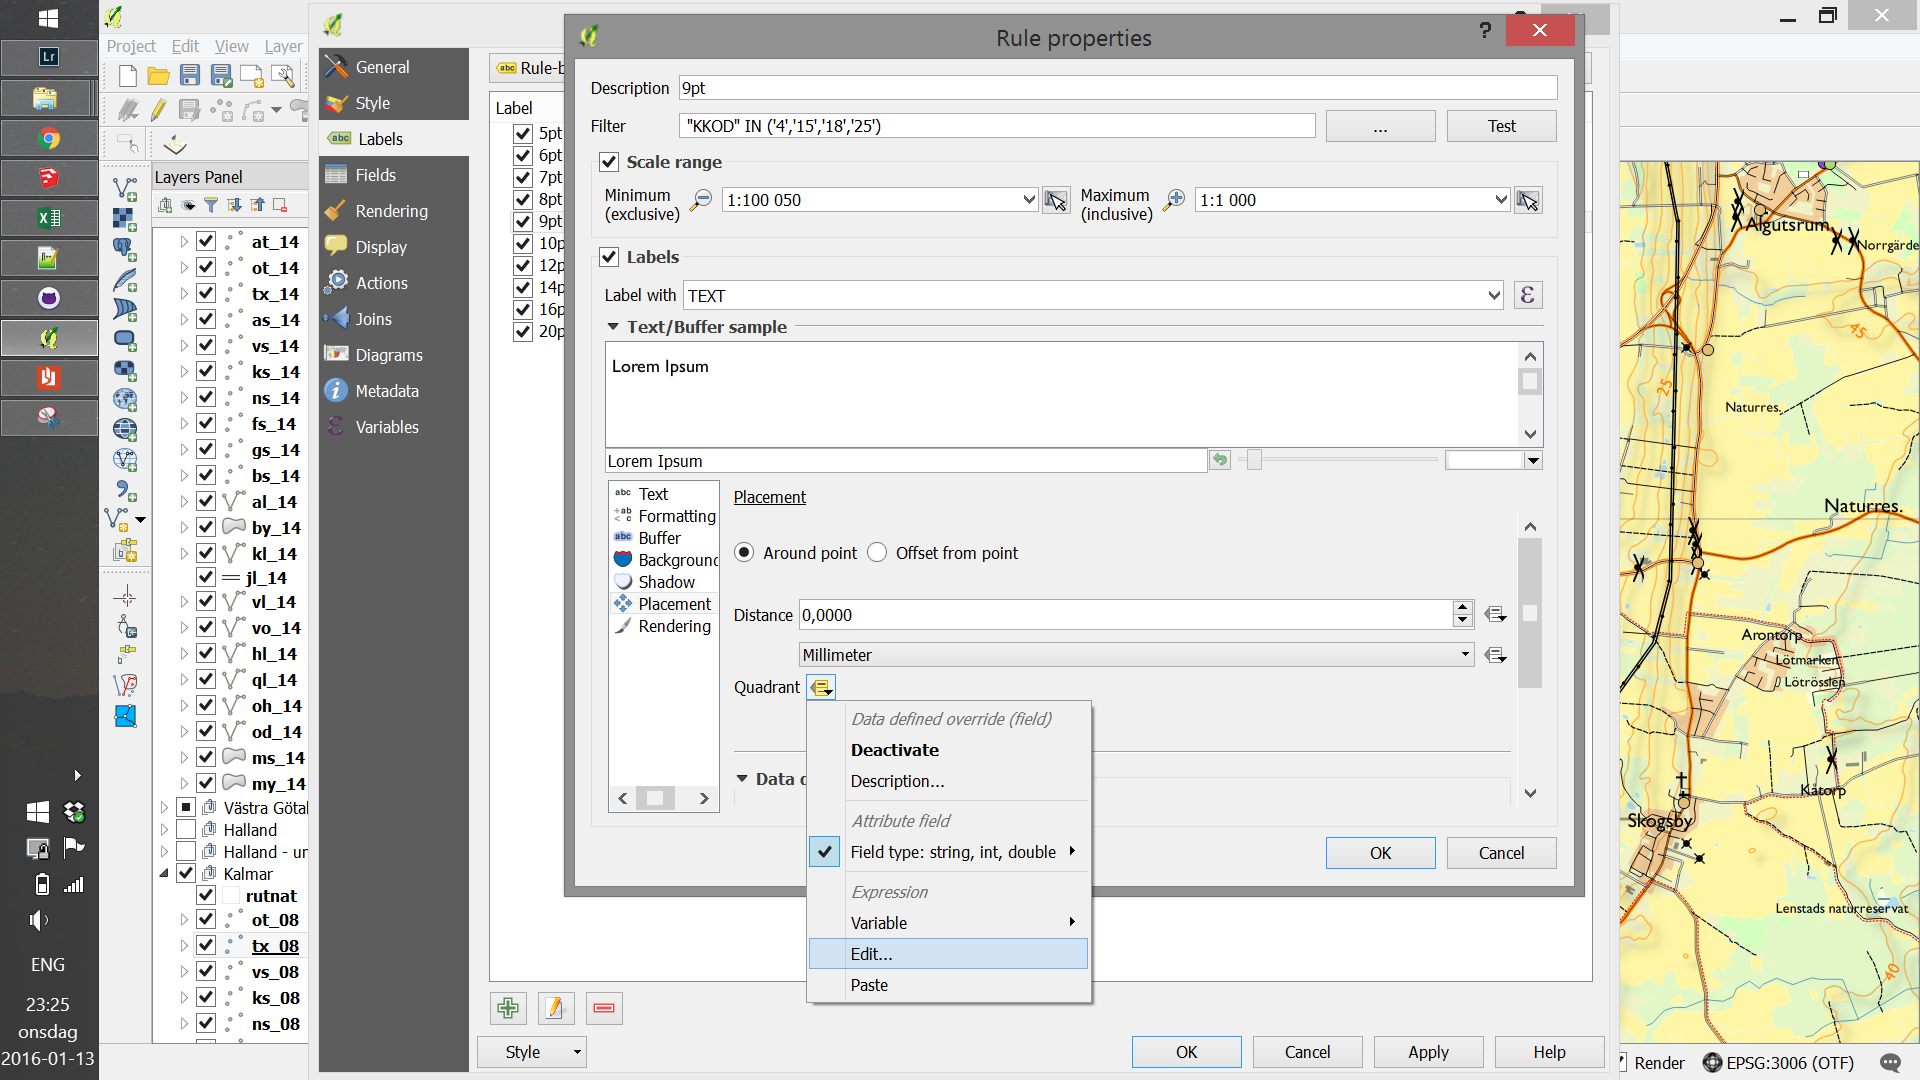
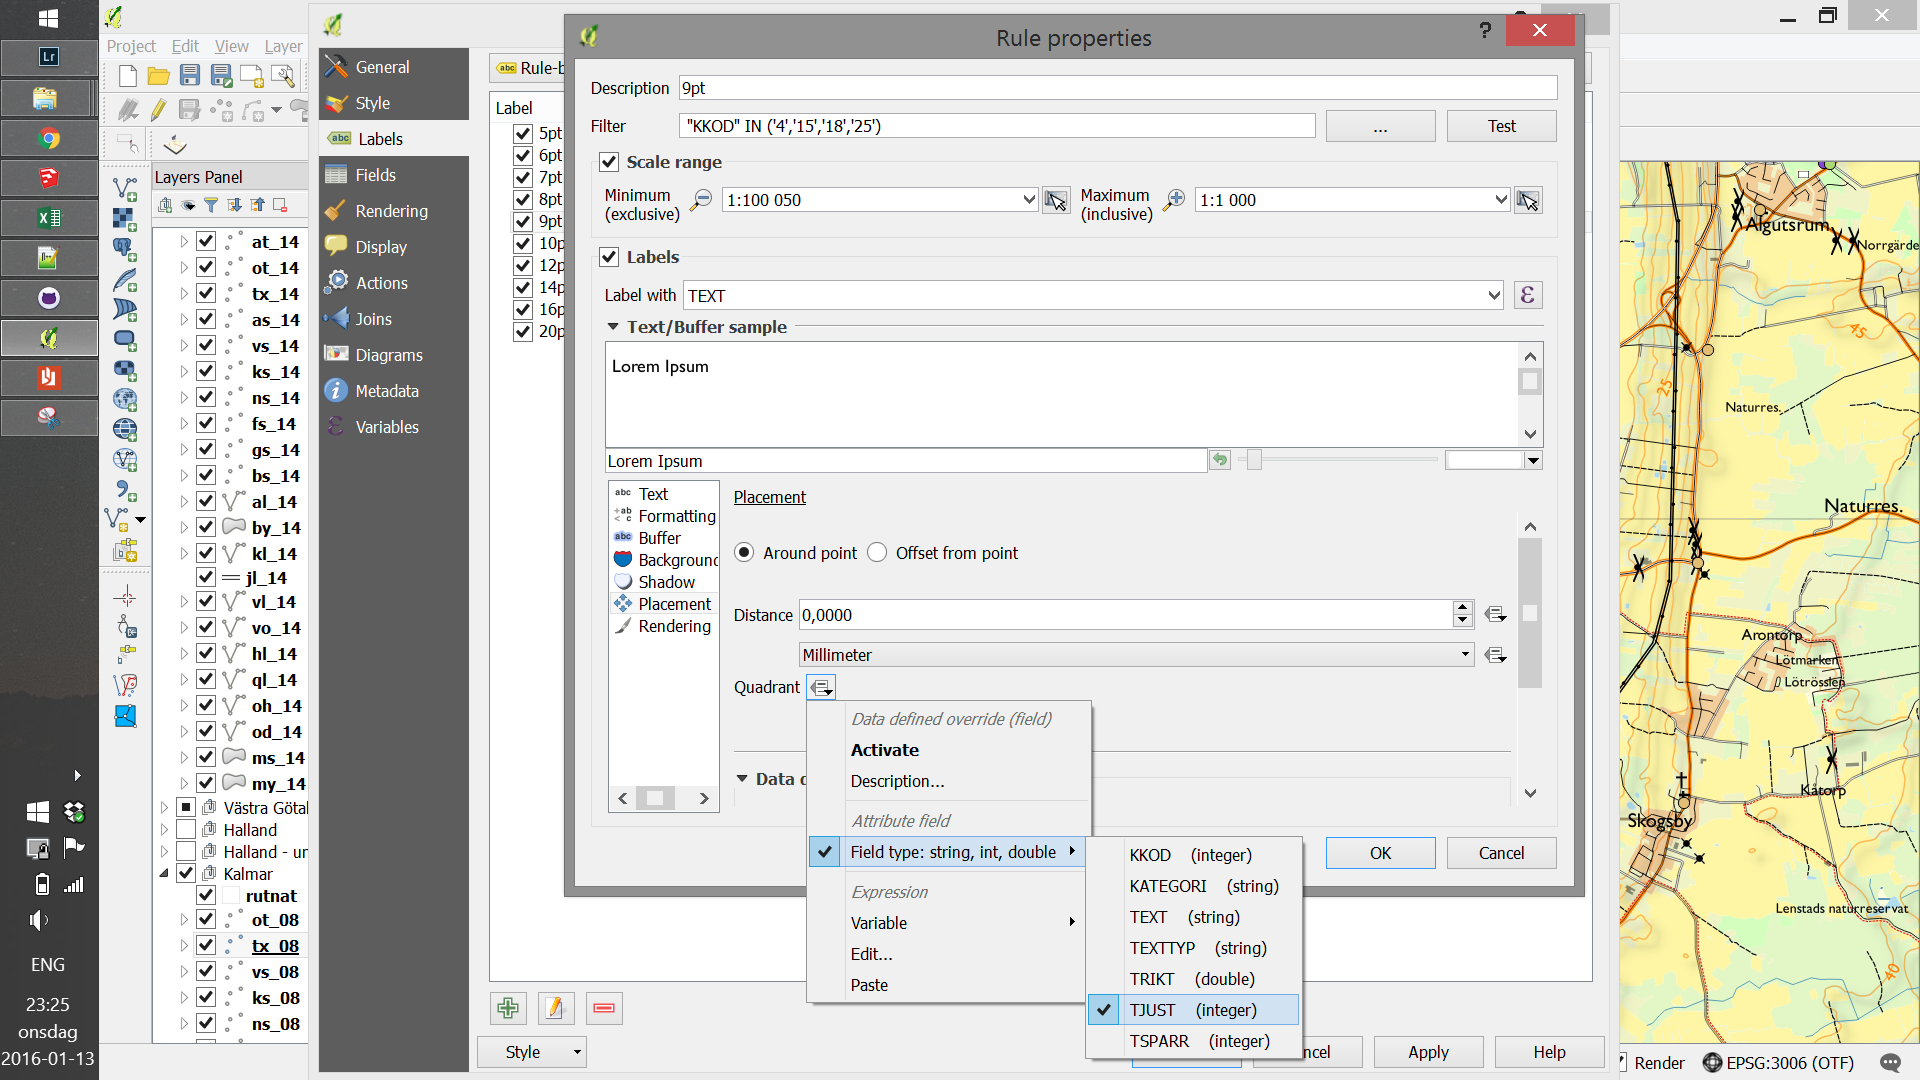
more info

Changed region(s): [[0.4062, 0.7639, 0.6875, 1.0], [0.4375, 0.6722, 0.5, 0.7028]]

diff --git a/Textjustering/README.md b/Textjustering/README.md
@@ -8,13 +8,17 @@ Detta fältet är till för att placera en text eller symbol kring den aktuella 
 Lantmäteriet har definierat hur denna variabel används i sin dokumentation enligt följande:
 
 7 8 9
+
 4 5 6
+
 1 2 3
 
 Problemet som uppstår när man vill justera enligt ovan i QGIS är att där definieras samma sak enligt:
 
 0 1 2
+
 3 4 5
+
 6 7 8 
 
 Exempel:
@@ -22,12 +26,31 @@ Exempel:
 Om TJUST = 7 (vänstra toppen) i LM's fil så hamnar istället texten centrerat under punkten.
 För att lösa detta kan man skriva en enkel funktion för att översätta mellan LM's och QGIS definition
  
+För att sätta en textjustering så väljs normalt sett vilket fält via "Quadrant"->Field type...->Fältnamn
+Detta fungerar dock inte så bra med LM's filer 
 ![alt tag](./1.png)
-![alt tag](https://raw.githubusercontent.com/chaoz/QGIS-LM-Terrain-Styles/master/Preview/2.png)
-![alt tag](https://raw.githubusercontent.com/chaoz/QGIS-LM-Terrain-Styles/master/Preview/3.png)
-![alt tag](https://raw.githubusercontent.com/chaoz/QGIS-LM-Terrain-Styles/master/Preview/4.png)
-![alt tag](https://raw.githubusercontent.com/chaoz/QGIS-LM-Terrain-Styles/master/Preview/5.png)
-![alt tag](https://raw.githubusercontent.com/chaoz/QGIS-LM-Terrain-Styles/master/Preview/6.png)
-![alt tag](https://raw.githubusercontent.com/chaoz/QGIS-LM-Terrain-Styles/master/Preview/7.png)
-![alt tag](https://raw.githubusercontent.com/chaoz/QGIS-LM-Terrain-Styles/master/Preview/8.png)
 
+Välj istället Edit...
+![alt tag](./2.png)
+
+Här kommer ett fönster upp för att skapa ett eget datauttryck för vilken data som skall användas,
+välj "Function Editor"-fliken
+![alt tag](./3.png)
+
+Här kan man skapa en ny funktion, det finns flera videos på Youtube som visar hur detta 
+fungerar. För detta syftet så skriv av min kod eller kopiera ut den från filen "funktion.txt" 
+som ligger i denna GitHub-katalog.
+![alt tag](./4.png)
+
+När funktionen är på plats tryck OK för att gå tillbaka till föregående fönster,
+välj Edit... på nytt
+![alt tag](./5.png)
+
+Nu kan funktionen som vi lagt in väljas under "Custom" eller skrivas in för hand.
+![alt tag](./6.png)
+
+Den parameter som vi vill använda är TJUST, klicka OK så är allt klart
+![alt tag](./7.png)
+
+För att kontrollera vilken funktion som används kan man se detta som "Current: ..." 
+![alt tag](./18.png)
